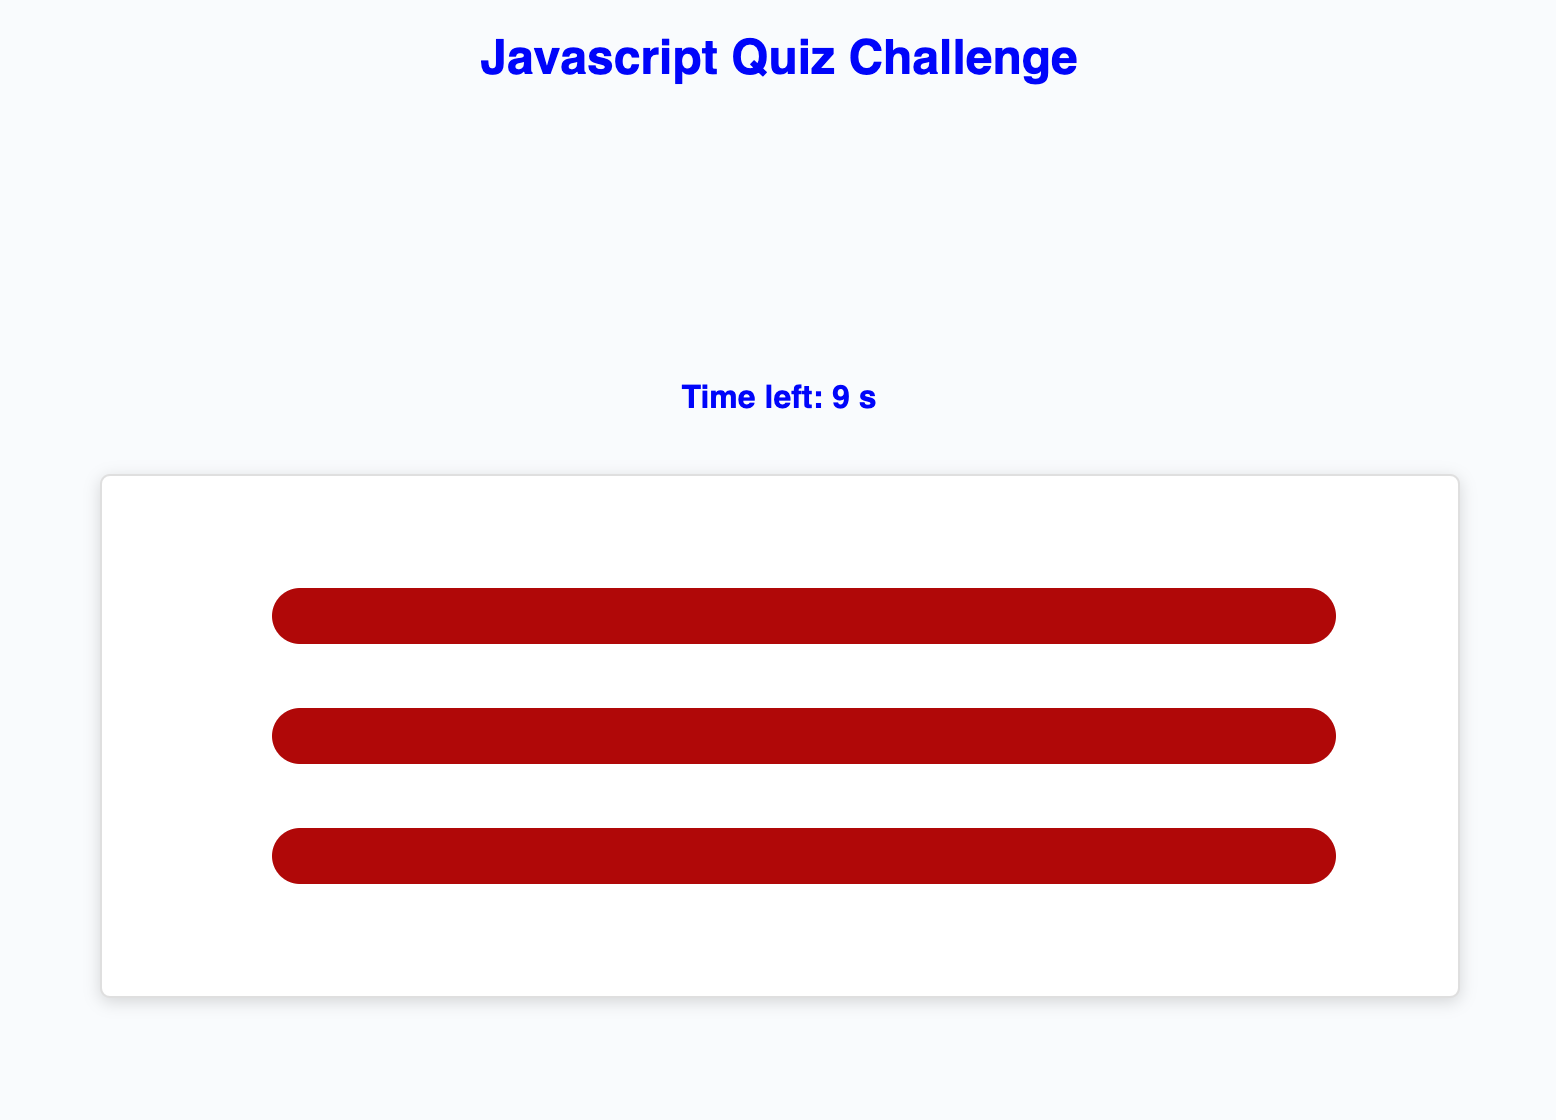
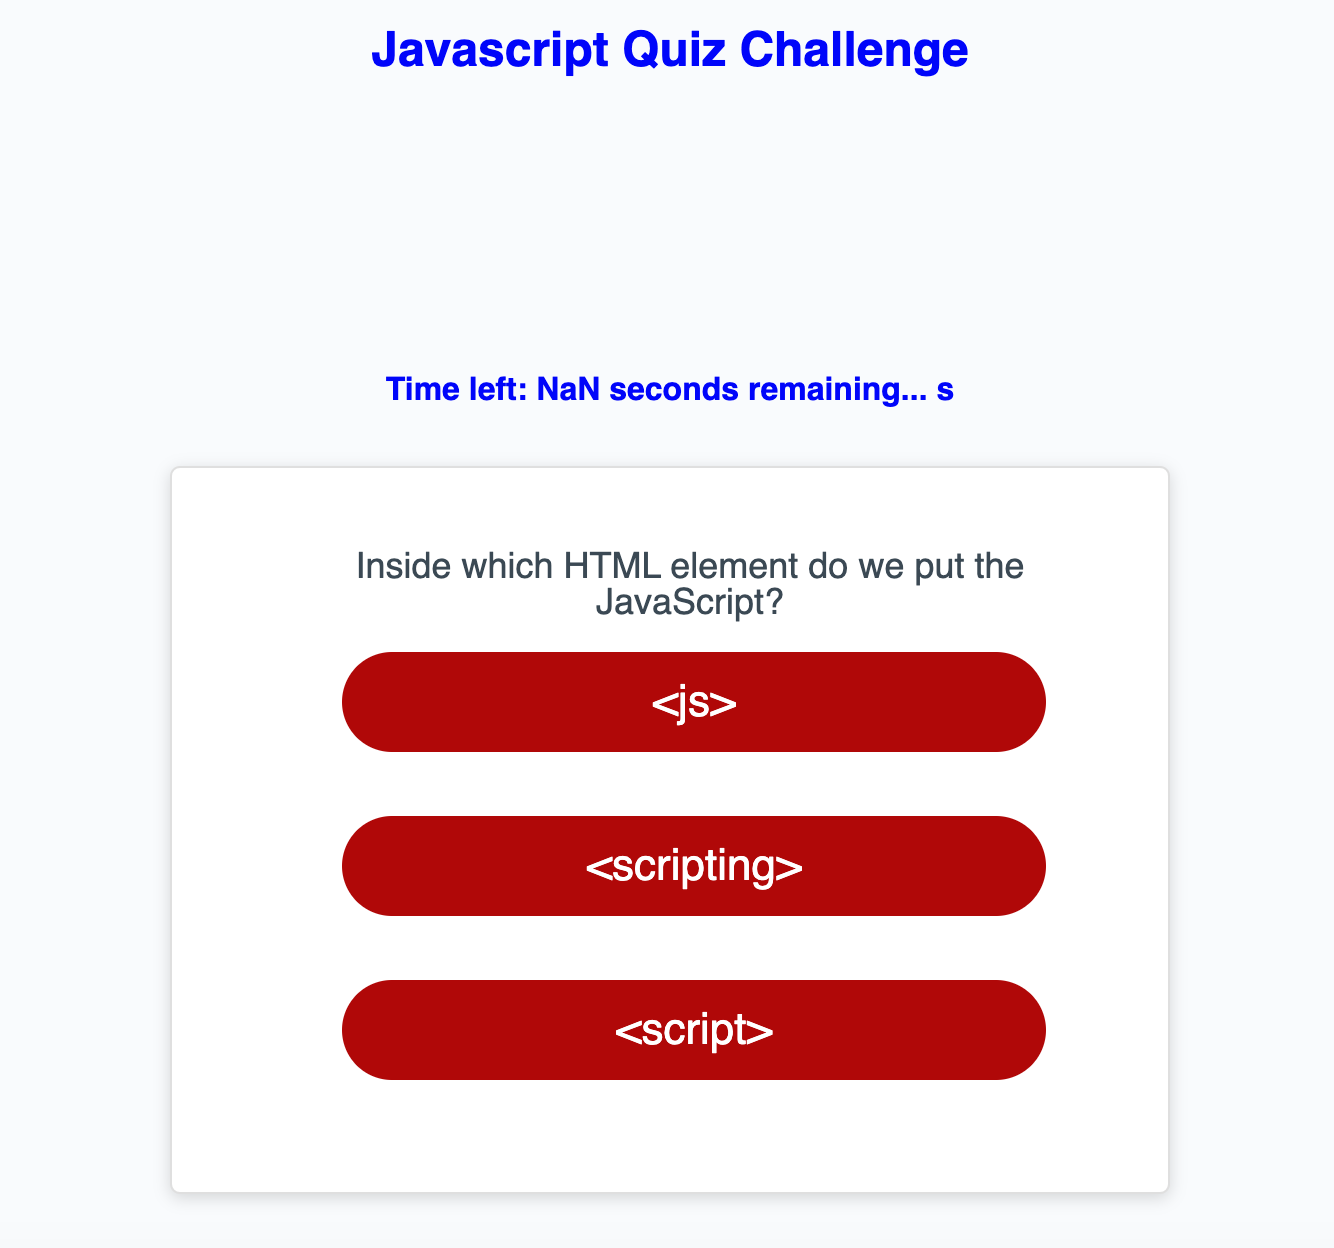
Updated Images

diff --git a/Assets/JS/script.js b/Assets/JS/script.js
@@ -49,7 +49,7 @@ function prepareNextQuestion() {
 
     timeLeft--;
   }, 1000);
-  showQuestion();
+  //showQuestion();
 
 }
 
